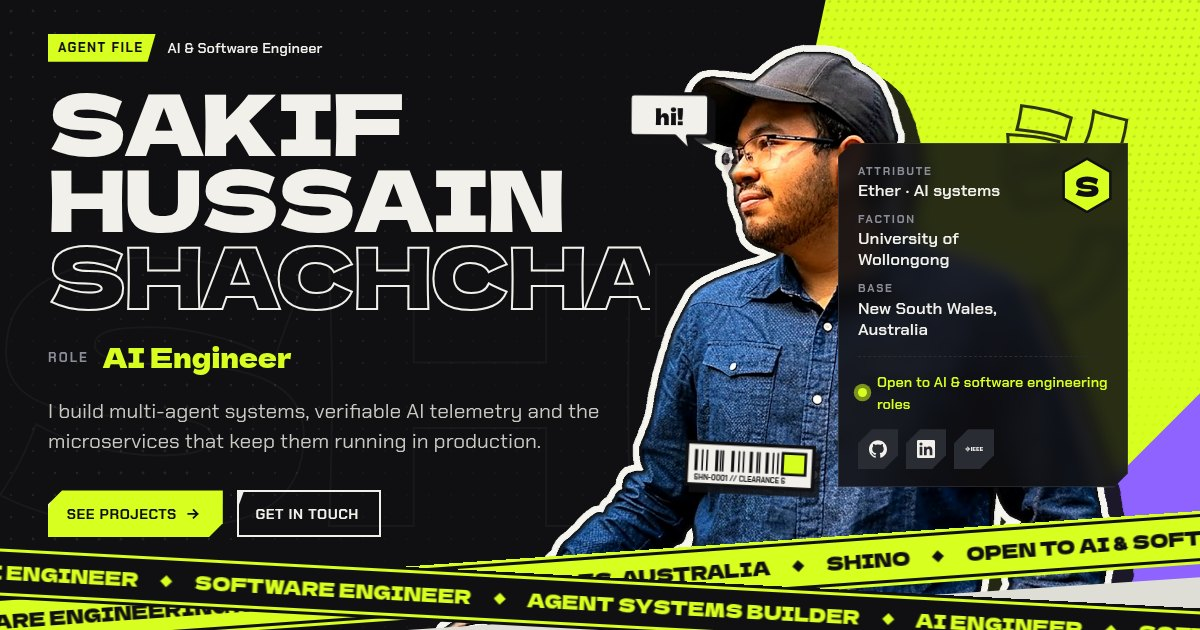
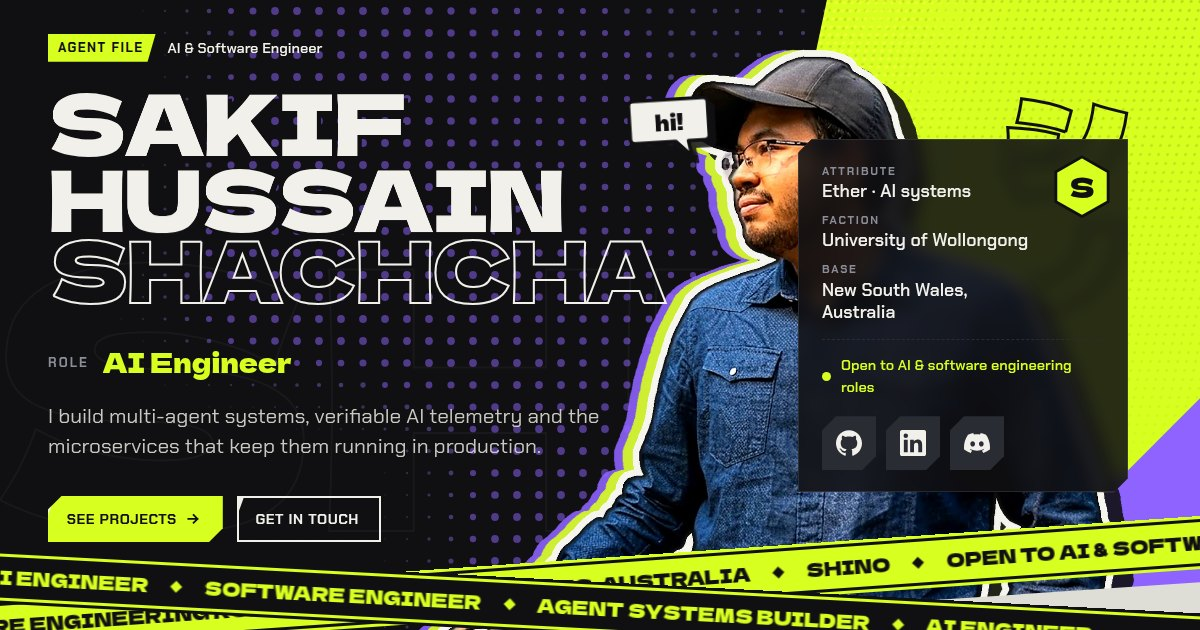
Hero motion upgrade, unified mission speed lines, Discord on the agent card
Hero (pure motion, demoed in lab/ first):
- Ether currents: dot sizes follow a flowing noise field tinted toward
  violet; clicks send lime shockwave rings through the dots
- Afterimage dash: violet and lime silhouettes from the portrait's own mask
  rush in, overshoot and settle; they lag the parallax and stretch with
  pointer speed
- Kinetic name: letters smear in, the outlined surname and シノ draw on
  stroke by stroke, a light sweep crosses the name, letters lean toward
  the cursor
- Halftone light band sweeps across the slab
- Slice-cut exit: portrait bands and name lines slide apart as you scroll
  away (scrubbed); exit is built after the intro settles
- Barcode sticker removed

Mission log: one continuous speed-line field whose focus glides to the
mission in view, instead of a separate box per panel.

Agent card: larger, bigger icons; GitHub, LinkedIn and Discord. Social
links take card: false (IEEE stays under Contact only) and copy: <text>.
Discord copies 'shino33' with a toast and opens Discord's friends page.

Refreshed share thumbnail.

diff --git a/src/scripts/hero.ts b/src/scripts/hero.ts
@@ -1,9 +1,11 @@
 import gsap from 'gsap';
+import { SplitText } from 'gsap/SplitText';
 
 const $ = <T extends Element = HTMLElement>(s: string, root: ParentNode = document) => root.querySelector<T>(s)!;
 const $$ = <T extends Element = HTMLElement>(s: string, root: ParentNode = document) => [...root.querySelectorAll<T>(s)];
 
 const hero = () => $('[data-hero]');
+let heroChars: HTMLElement[] = [];
 
 /** Hide hero parts before the loader clears so nothing flashes. */
 export function heroInitialState() {
@@ -11,9 +13,14 @@ export function heroInitialState() {
   if (!h) return;
   gsap.set($('[data-hero-slab]', h), { skewX: -12, yPercent: 110 });
   gsap.set($('[data-hero-tri]', h), { scale: 0, transformOrigin: '100% 100%' });
-  gsap.set($('[data-hero-jp]', h), { yPercent: -30, opacity: 0 });
-  gsap.set($('[data-hero-portrait]', h), { xPercent: 18, opacity: 0, filter: 'blur(18px)' });
-  gsap.set($$('[data-hero-line]', h), { yPercent: 115, skewY: 7 });
+  gsap.set($$('[data-draw]', h), { strokeDasharray: 900, strokeDashoffset: 900 });
+  gsap.set($('[data-hero-main]', h), { xPercent: 30, opacity: 0, filter: 'blur(14px)' });
+  const [echoB, echoA] = $$('[data-hero-echo]', h);
+  gsap.set(echoB, { xPercent: 85, opacity: 0, scaleX: 1.7 });
+  gsap.set(echoA, { xPercent: 65, opacity: 0, scaleX: 1.45 });
+  // split solid name lines into letters for the smear-in
+  heroChars = $$('[data-hero-line]', h).flatMap((line) => SplitText.create(line, { type: 'chars', charsClass: 'char' }).chars as HTMLElement[]);
+  gsap.set(heroChars, { xPercent: -170, scaleX: 2.6, opacity: 0, filter: 'blur(8px)', transformOrigin: '100% 50%' });
   gsap.set($$('[data-hero-in]', h), { y: 28, opacity: 0 });
   gsap.set($('[data-hero-card]', h), { xPercent: 25, opacity: 0 });
   gsap.set($$('[data-sticker]', h), { scale: 0, rotate: -40 });
@@ -24,19 +31,28 @@ export function heroInitialState() {
 export function heroIntro() {
   const h = hero();
   if (!h) return;
-  const tl = gsap.timeline({ defaults: { ease: 'expo.out' } });
+  const tl = gsap.timeline({
+    defaults: { ease: 'expo.out' },
+    onComplete: () => { document.documentElement.dataset.heroReady = '1'; dispatchEvent(new Event('hero:ready')); },
+  });
   tl.to($('[data-hero-slab]', h), { yPercent: 0, duration: 1.1 })
     .to($('[data-hero-tri]', h), { scale: 1, duration: 0.9 }, 0.15)
     .to($('[data-hero-ghost]', h), { opacity: 1, x: 0, duration: 1.4 }, 0.1)
-    .to($('[data-hero-jp]', h), { yPercent: 0, opacity: 0.85, duration: 1.2 }, 0.3)
-    .to($('[data-hero-portrait]', h), { xPercent: 0, opacity: 1, filter: 'blur(0px)', duration: 1, ease: 'power4.out' }, 0.35)
-    .add(() => glitch(true), 0.9)
-    .to($$('[data-hero-line]', h), { yPercent: 0, skewY: 0, duration: 1, stagger: 0.09 }, 0.3)
+    // シノ and the outlined surname draw themselves on, stroke by stroke
+    .to($$('[data-hero-jp] [data-draw]', h), { strokeDashoffset: 0, duration: 1.8, stagger: 0.3, ease: 'power2.inOut' }, 0.35)
+    .to($$('[data-hero-draw] [data-draw]', h), { strokeDashoffset: 0, duration: 1.4, stagger: 0.07, ease: 'power2.inOut' }, 0.75)
+    // afterimage dash-in: violet then lime silhouettes overshoot, the portrait lands, echoes settle behind it
+    .to($$('[data-hero-echo]', h), { xPercent: -7, opacity: 0.9, scaleX: 1, duration: 0.55, ease: 'power4.out', stagger: 0.07 }, 0.3)
+    .to($('[data-hero-main]', h), { xPercent: 0, opacity: 1, filter: 'blur(0px)', duration: 0.6, ease: 'power4.out' }, 0.5)
+    .to($$('[data-hero-echo]', h), { xPercent: (i) => (i ? -1.4 : -2.6), duration: 0.9, ease: 'elastic.out(1, 0.5)', stagger: 0.05 }, 0.85)
+    .add(() => glitch(true), 1)
+    // name letters smear in from the left and snap to shape
+    .to(heroChars, { xPercent: 0, scaleX: 1, opacity: 1, filter: 'blur(0px)', duration: 0.75, stagger: 0.035, ease: 'expo.out' }, 0.3)
     .to($$('[data-hero-in]', h), { y: 0, opacity: 1, duration: 0.8, stagger: 0.07 }, 0.6)
     .to($('[data-hero-card]', h), { xPercent: 0, opacity: 1, duration: 0.9 }, 0.8)
     .to($$('[data-sticker]', h), { scale: 1, rotate: 0, duration: 0.7, ease: 'back.out(2.2)', stagger: 0.1 }, 1)
     .to($$('[data-hero-tapes] .tape'), { yPercent: 0, duration: 0.9, stagger: 0.08, ease: 'power4.out' }, 0.7)
-    .add(() => { gsap.set($('[data-hero-portrait]', h), { clearProps: 'filter' }); });
+    .add(() => { gsap.set([$('[data-hero-main]', h), ...heroChars], { clearProps: 'filter' }); });
   // Play the whole intro ~35% slower so each beat reads clearly.
   tl.timeScale(0.74);
   return tl;
@@ -110,17 +126,57 @@ export function heroIdle() {
   const fine = matchMedia('(pointer: fine)').matches;
   if (fine) {
     const layers: [string, number][] = [
-      ['[data-hero-portrait]', 18], ['[data-hero-jp]', -36], ['[data-hero-ghost]', -14], ['[data-hero-card]', 10], ['.sticker--bubble', 34], ['.sticker--code', 26],
+      ['[data-hero-portrait]', 18], ['[data-hero-jp]', -36], ['[data-hero-ghost]', -14], ['[data-hero-card]', 10], ['.sticker--bubble', 16],
     ];
     const movers = layers.map(([sel, d]) => {
       const el = $(sel, h);
       return el && { x: gsap.quickTo(el, 'x', { duration: 1, ease: 'power3.out' }), y: gsap.quickTo(el, 'y', { duration: 1, ease: 'power3.out' }), d };
     }).filter(Boolean) as { x: (v: number) => void; y: (v: number) => void; d: number }[];
+    // afterimages lag behind the portrait and stretch with pointer speed
+    const echoes = $$('[data-hero-echo]', h).map((el, i) => ({
+      x: gsap.quickTo(el, 'x', { duration: 1.4 + i * 0.5, ease: 'power3.out' }),
+      y: gsap.quickTo(el, 'y', { duration: 1.4 + i * 0.5, ease: 'power3.out' }),
+      sx: gsap.quickTo(el, 'scaleX', { duration: 0.6, ease: 'power2.out' }),
+      k: 1 + i * 0.6,
+    }));
+    let lx = 0, ly = 0, lt = performance.now(), stretch = 0;
     h.addEventListener('pointermove', (e) => {
       const nx = e.clientX / innerWidth - 0.5;
       const ny = e.clientY / innerHeight - 0.5;
       movers.forEach((m) => { m.x(nx * m.d); m.y(ny * m.d * 0.6); });
+      const now = performance.now();
+      const speed = Math.hypot(e.clientX - lx, e.clientY - ly) / Math.max(8, now - lt);
+      lx = e.clientX; ly = e.clientY; lt = now;
+      stretch = Math.max(stretch, Math.min(0.22, speed * 0.05));
+      echoes.forEach((ec) => {
+        ec.x(-nx * 26 * ec.k);
+        ec.y(-ny * 12 * ec.k);
+      });
     });
+    // stretch follows pointer speed and relaxes when the pointer stops
+    gsap.ticker.add(() => {
+      if (stretch < 0.002) return;
+      stretch *= 0.92;
+      echoes.forEach((ec) => ec.sx(1 + stretch * ec.k));
+    });
+
+    // name letters lift and lean toward the cursor
+    const pulls = heroChars.map((c) => ({ c, y: gsap.quickTo(c, 'y', { duration: 0.45, ease: 'power3.out' }), sk: gsap.quickTo(c, 'skewX', { duration: 0.45, ease: 'power3.out' }) }));
+    const name = $('#hero-name', h);
+    name?.addEventListener('pointermove', (e) => {
+      pulls.forEach((p) => {
+        const r = p.c.getBoundingClientRect();
+        const dx = e.clientX - (r.left + r.width / 2), dy = e.clientY - (r.top + r.height / 2);
+        const f = Math.max(0, 1 - Math.hypot(dx, dy) / 190);
+        p.y(-f * f * 30);
+        p.sk(-(dx / 190) * f * 20);
+      });
+    });
+    name?.addEventListener('pointerleave', () => pulls.forEach((p) => { p.y(0); p.sk(0); }));
   }
+
+  // halftone light band sweeping across the slab
+  const scan = $('[data-hero-scan]', h);
+  if (scan) gsap.fromTo(scan, { xPercent: -45 }, { xPercent: 45, duration: 1.8, ease: 'power2.inOut', repeat: -1, repeatDelay: 2.6, delay: 2 });
 
 }

diff --git a/src/scripts/dots.ts b/src/scripts/dots.ts
@@ -17,6 +17,18 @@ type Tone = keyof typeof TONES;
 
 const mouse = { x: -9999, y: -9999 };
 
+/* Smooth 2D value noise (0–1), cheap enough to evaluate per dot per frame. */
+const BASE_PERM = [...Array(256).keys()].sort((a, b) => ((a * 7919 + 13) % 256) - ((b * 7919 + 13) % 256));
+const PERM = Uint8Array.from({ length: 512 }, (_, i) => BASE_PERM[i & 255]);
+const hash = (x: number, y: number) => PERM[(PERM[x & 255] + y) & 511] / 255;
+const smooth = (t: number) => t * t * (3 - 2 * t);
+function noise(x: number, y: number) {
+  const xi = Math.floor(x), yi = Math.floor(y);
+  const xf = smooth(x - xi), yf = smooth(y - yi);
+  const a = hash(xi, yi), b = hash(xi + 1, yi), c = hash(xi, yi + 1), d = hash(xi + 1, yi + 1);
+  return a + (b - a) * xf + (c - a) * yf + (a - b - c + d) * xf * yf;
+}
+
 export function initDots() {
   const layers = [...document.querySelectorAll<HTMLElement>('[data-dots]')];
   if (!layers.length) return;
@@ -37,6 +49,15 @@ function field(layer: HTMLElement) {
   let w = 0, h = 0, dpr = 1, running = false;
   // eased cursor position in canvas space, so the bloom trails the pointer slightly
   const p = { x: -9999, y: -9999 };
+  // click shockwaves travelling through the dot sizes (flow mode only)
+  const ripples: { x: number; y: number; t: number }[] = [];
+  if (base === 'flow') {
+    host.addEventListener('pointerdown', (e) => {
+      const c = canvas.getBoundingClientRect();
+      ripples.push({ x: e.clientX - c.left, y: e.clientY - c.top, t: performance.now() });
+      if (ripples.length > 4) ripples.shift();
+    });
+  }
 
   const size = () => {
     dpr = Math.min(devicePixelRatio || 1, 2);
@@ -59,7 +80,43 @@ function field(layer: HTMLElement) {
     const time = t * 0.0018;
     const waveW = w * 0.62;
 
-    if (base !== 'none' && tone.baseAlpha > 0) {
+    if (base === 'flow') {
+      // ether currents: dot size follows a domain-warped noise field drifting over time,
+      // tinted from grey toward violet where the current is strongest
+      const now = performance.now();
+      const ts = t * 0.00012;
+      const BUCKETS = 6;
+      const paths = Array.from({ length: BUCKETS }, () => new Path2D());
+      const ringPath = new Path2D();
+      const live = ripples.filter((r) => now - r.t < 1600);
+      for (let y = offset + GAP / 2; y < h; y += GAP) {
+        for (let x = GAP / 2; x < w; x += GAP) {
+          const q = noise(x * 0.0026 + ts * 2, y * 0.0026 - ts);
+          let v = noise(x * 0.0045 + q * 2.4 - ts * 3, y * 0.0045 + q * 1.6 + ts);
+          v = Math.max(0, Math.min(1, (v - 0.25) * 1.6));
+          let r = 0.5 + v * v * 3.4;
+          let bump = 0;
+          for (const rp of live) {
+            const age = now - rp.t;
+            const d = Math.hypot(x - rp.x, y - rp.y) - age * 0.75;
+            bump += Math.exp(-(d * d) / 900) * (1 - age / 1600);
+          }
+          r += bump * 6;
+          // dots riding a shockwave crest light up lime
+          const target = bump > 0.3 ? ringPath : paths[Math.min(BUCKETS - 1, Math.floor(v * BUCKETS))];
+          target.moveTo(x + r, y);
+          target.arc(x, y, r, 0, Math.PI * 2);
+        }
+      }
+      paths.forEach((path, b) => {
+        const k = b / (BUCKETS - 1);
+        const col = [139 + (143 - 139) * k, 141 + (99 - 141) * k, 152 + (255 - 152) * k].map(Math.round).join(',');
+        ctx.fillStyle = `rgba(${col},${0.1 + k * 0.4})`;
+        ctx.fill(path);
+      });
+      ctx.fillStyle = `rgba(${tone.hot},0.85)`;
+      ctx.fill(ringPath);
+    } else if (base !== 'none' && tone.baseAlpha > 0) {
       ctx.fillStyle = `rgba(${tone.base},${base === 'wave' ? 0.16 : tone.baseAlpha})`;
       ctx.beginPath();
       for (let y = offset + GAP / 2; y < h; y += GAP) {

diff --git a/src/scripts/scroll.ts b/src/scripts/scroll.ts
@@ -75,10 +75,27 @@ function navTracking(motion: boolean) {
 function heroScrollOut() {
   const h = $('[data-hero]');
   if (!h) return;
-  const tl = gsap.timeline({ scrollTrigger: { trigger: h, start: 'top top', end: 'bottom top', scrub: 0.6 } });
-  tl.to($('[data-hero-portrait]', h), { yPercent: 14, scale: 1.06, ease: 'none' }, 0)
-    .to($('.hero__copy', h), { yPercent: -30, opacity: 0.2, ease: 'none' }, 0)
+  // build only after the intro has finished, so the exit records the settled values
+  if (!document.documentElement.dataset.heroReady) {
+    addEventListener('hero:ready', () => { heroScrollOut(); ScrollTrigger.refresh(); }, { once: true });
+    return;
+  }
+  const cuts = $$('[data-hero-cut] > div', h);
+  const lines = $$('.hero__line > *', h);
+  // slice-cut exit: the portrait swaps to horizontal bands that slide apart in alternating
+  // directions, and each name line slides out its own way. Scrubbed, so it reverses on the way back.
+  const tl = gsap.timeline({
+    scrollTrigger: {
+      trigger: h, start: 'top top', end: 'bottom top', scrub: 0.6,
+      onUpdate: (self) => h.classList.toggle('is-cut', self.progress > 0.015),
+    },
+  });
+  tl.to($('[data-hero-portrait]', h), { yPercent: 10, ease: 'none' }, 0)
+    .to(cuts, { x: (k: number) => (k % 2 ? 1 : -1) * (70 + k * 38), ease: 'power2.in' }, 0)
+    .to(lines, { x: (k: number) => (k % 2 ? 1 : -1) * 280, ease: 'power2.in' }, 0)
+    .to($('.hero__copy', h), { opacity: 0.35, ease: 'none' }, 0)
     .to($('[data-hero-slab]', h), { xPercent: 12, ease: 'none' }, 0)
+    .to($('[data-hero-jp]', h), { yPercent: -25, ease: 'none' }, 0)
     .to($('[data-hero-ghost]', h), { xPercent: -18, ease: 'none' }, 0)
     .to($('[data-hero-card]', h), { yPercent: -40, opacity: 0, ease: 'none' }, 0);
 }
@@ -202,7 +219,7 @@ function missions() {
       const dir = m.classList.contains('mission--l') ? 1 : -1;
       const tag = $('[data-mside-tag]', side)!;
       const numEl = $('[data-odometer]', side)!;
-      const speed = $('[data-speed]', side);
+      const speed = $('.mfield [data-speed]');
       tl.from($('[data-mside-hatch]', side), { scaleX: 0, duration: 0.7, ease: 'expo.out' }, 0.1)
         .from(tag, { xPercent: 70 * dir, skewX: -18 * dir, opacity: 0, duration: 0.8, ease: 'expo.out' }, 0.2)
         .add(odometer(numEl, 0.55), 0.3)

diff --git a/src/scripts/fx.ts b/src/scripts/fx.ts
@@ -18,7 +18,9 @@ export function initSpeedLines() {
     const fx = Number(canvas.dataset.fx ?? 0.5);
     const fy = Number(canvas.dataset.fy ?? 0.5);
     const rgb = INK[(canvas.dataset.tone as keyof typeof INK) || 'paper'];
+    const follow = canvas.dataset.follow;
     let w = 0, h = 0, visible = false, last = 0, intensity = 0.55;
+    const focus = { x: -1, y: -1 };
 
     const size = () => {
       const dpr = Math.min(devicePixelRatio || 1, 2);
@@ -29,13 +31,30 @@ export function initSpeedLines() {
 
     const draw = () => {
       ctx.clearRect(0, 0, w, h);
-      const cx = w * fx, cy = h * fy;
+      let cx = w * fx, cy = h * fy;
+      if (follow) {
+        // aim at the followed element closest to the middle of the viewport, gliding between them
+        const c = canvas.getBoundingClientRect();
+        let best: DOMRect | null = null, bestD = Infinity;
+        document.querySelectorAll(follow).forEach((el) => {
+          const r = el.getBoundingClientRect();
+          const d = Math.abs(r.top + r.height / 2 - innerHeight * 0.45);
+          if (d < bestD) { bestD = d; best = r; }
+        });
+        if (best) {
+          const b = best as DOMRect;
+          const tx = b.left + b.width / 2 - c.left, ty = b.top + b.height / 2 - c.top;
+          if (focus.x < 0) { focus.x = tx; focus.y = ty; }
+          focus.x += (tx - focus.x) * 0.3; focus.y += (ty - focus.y) * 0.3;
+          cx = focus.x; cy = focus.y;
+        }
+      }
       const reach = Math.hypot(Math.max(cx, w - cx), Math.max(cy, h - cy));
       const count = 90;
       for (let i = 0; i < count; i++) {
         const a = (i / count) * Math.PI * 2 + (Math.random() - 0.5) * 0.06;
         // empty eye around the focus, lines start at a jittered radius
-        const r0 = reach * (0.2 + Math.random() * 0.22);
+        const r0 = follow ? 150 + Math.random() * 230 : reach * (0.2 + Math.random() * 0.22);
         const r1 = reach * 1.05;
         const spread = (0.004 + Math.random() * 0.012) * (0.6 + intensity);
         ctx.fillStyle = `rgba(${rgb},${(0.08 + Math.random() * 0.22) * intensity})`;

diff --git a/src/scripts/ui.ts b/src/scripts/ui.ts
@@ -8,6 +8,7 @@ export function initUI(lenis: Lenis | null, motion: boolean) {
   anchors(lenis);
   mobileMenu(lenis, motion);
   copyEmail();
+  copyOnClick();
   if (!motion) return;
   const fine = matchMedia('(hover: hover) and (pointer: fine)').matches;
   if (fine) {
@@ -150,6 +151,23 @@ function copyEmail() {
       }
       setTimeout(() => { label.textContent = original; }, 2200);
     });
+  });
+}
+
+/* Links with data-copy-text copy it (e.g. a Discord username) and still open their URL. */
+function copyOnClick() {
+  const toast = document.querySelector<HTMLElement>('[data-toast]');
+  let timer = 0;
+  document.addEventListener('click', (e) => {
+    const a = (e.target as HTMLElement).closest<HTMLElement>('[data-copy-text]');
+    if (!a?.dataset.copyText) return;
+    const text = a.dataset.copyText;
+    navigator.clipboard?.writeText(text).catch(() => {});
+    if (!toast) return;
+    toast.textContent = `${a.dataset.copyLabel ?? ''} username "${text}" copied. Paste it into Add Friend.`.trim();
+    toast.classList.add('is-on');
+    clearTimeout(timer);
+    timer = window.setTimeout(() => toast.classList.remove('is-on'), 4200);
   });
 }
 

diff --git a/src/content.config.ts b/src/content.config.ts
@@ -64,7 +64,7 @@ export const collections = {
       rank: z.string().max(2),
       attribute: z.string(),
       faction: z.string(),
-      socials: z.array(link.extend({ icon: z.string() })).default([]),
+      socials: z.array(link.extend({ icon: z.string(), card: z.boolean().default(true), copy: z.string().optional() })).default([]),
     }),
   }),
   skills: defineCollection({
